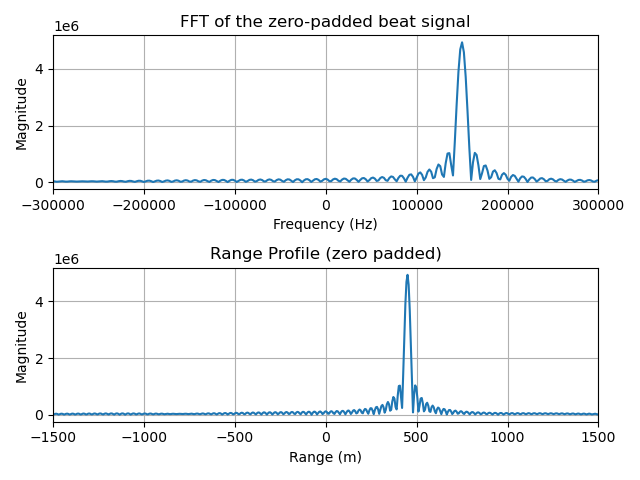
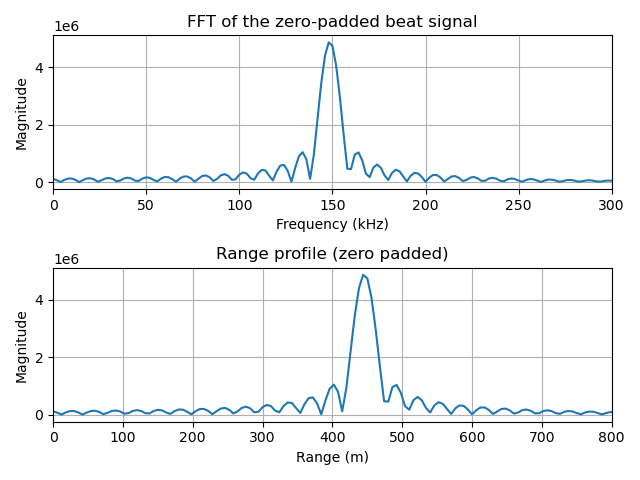
betere plotjes

Changed region(s): [[0.0312, 0.0312, 0.9688, 0.9688], [0.0625, 0.9062, 0.125, 0.9375]]

diff --git a/lab5/lab5_ex5.py b/lab5/lab5_ex5.py
@@ -24,7 +24,7 @@ tx_gain = -10
 rx_gain = 10
 
 # Radar waveform parameters
-B = 5e6
+B = 25e6
 T = 100e-6
 f0 = 2.5e9
 fs = PlutoSamprate
@@ -60,22 +60,22 @@ plt.show()
 beat_signal = np.conj(added_result) * sig_A
 beat_signal = lowpass_filter(beat_signal, fs, cutoff=400e3)
 beat_fft = np.fft.fftshift(np.fft.fft(beat_signal))
-freq_axis = np.fft.fftshift(np.fft.fftfreq(len(beat_signal), d=1/fs))
-range_axis = (freq_axis * c) / (2 * k)
+freq_axis = np.fft.fftshift(np.fft.fftfreq(len(beat_signal), d=1/fs)) / 1e3
+range_axis = (freq_axis * c) / (2 * k) * 1e3
 plt.figure()
 plt.subplot(2, 1, 1)
 plt.plot(freq_axis, np.abs(beat_fft))
 plt.title("FFT of the beat signal")
-plt.xlabel("Frequency (Hz)")
+plt.xlabel("Frequency (kHz)")
 plt.ylabel("Magnitude")
-plt.xlim(-0.06*B, 0.06*B)
+plt.xlim(0, 0.06*B/1e3)
 plt.grid()
 plt.subplot(2, 1, 2)
 plt.plot(range_axis, np.abs(beat_fft))
-plt.title("Range Profile")
+plt.title("Range profile")
 plt.xlabel("Range (m)")
 plt.ylabel("Magnitude")
-plt.xlim(-1500, 1500)
+plt.xlim(0, 800)
 plt.grid()
 plt.tight_layout()
 plt.savefig(os.path.join(save_path, f"range_profile_{B/1e6:.1f}MHz.png"))
@@ -89,22 +89,22 @@ beat_signal = lowpass_filter(beat_signal, fs, cutoff=400e3)
 zero_pad_factor = 5
 nfft = len(beat_signal) * zero_pad_factor
 beat_fft = np.fft.fftshift(np.fft.fft(beat_signal, n=nfft))
-freq_axis = np.fft.fftshift(np.fft.fftfreq(nfft, d=1/fs))
-range_axis = (freq_axis * c) / (2 * k)
+freq_axis = np.fft.fftshift(np.fft.fftfreq(nfft, d=1/fs))/1e3
+range_axis = (freq_axis * c) / (2 * k) * 1e3
 plt.figure()
 plt.subplot(2, 1, 1)
 plt.plot(freq_axis, np.abs(beat_fft))
 plt.title("FFT of the zero-padded beat signal")
-plt.xlabel("Frequency (Hz)")
+plt.xlabel("Frequency (kHz)")
 plt.ylabel("Magnitude")
-plt.xlim(-0.06*B, 0.06*B)
+plt.xlim(0, 0.06*B/1e3)
 plt.grid()
 plt.subplot(2, 1, 2)
 plt.plot(range_axis, np.abs(beat_fft))
-plt.title("Range Profile (zero padded)")
+plt.title("Range profile (zero padded)")
 plt.xlabel("Range (m)")
 plt.ylabel("Magnitude")
-plt.xlim(-1500, 1500)
+plt.xlim(0, 800)
 plt.grid()
 plt.tight_layout()
 plt.savefig(os.path.join(save_path, f"range_profile_padded_{B/1e6:.1f}MHz.png"))
